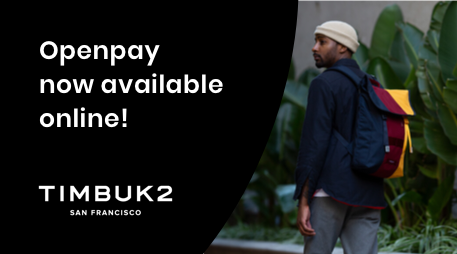
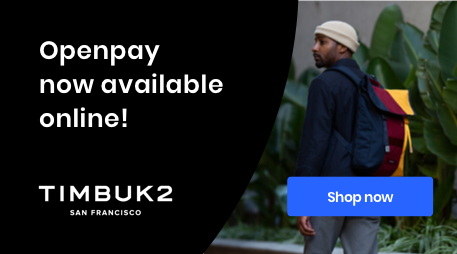
Tiles 2.0

Changed region(s): [[0.6127, 0.689, 0.9497, 0.8543]]

diff --git a/src/shop.html b/src/shop.html
@@ -151,10 +151,10 @@
             <h1>Featured Retailers</h1>
             <div class="treeBanners">
 		 <div class="col-3">
-                    <a>  <img src="./images/TOMS.png"></a>
+                    <a href="https://tomsaustralia.com.au/">  <img src="./images/TOMS.png"></a>
                 </div>
                 <div class="col-3">
-                    <a>  <img src="./images/Timbuk2.png"></a>
+                    <a href="https://timbuk2.com.au/">  <img src="./images/Timbuk2.png"></a>
                 </div>
                 <div class="col-3">
                     <a href="bunnings"><img src="./images/Bunnings Reg.png"></a>

diff --git a/src/how.html b/src/how.html
@@ -160,10 +160,10 @@
             <h1>Featured Retailers</h1>
             <div class="treeBanners">
 		<div class="col-3">
-                    <a>  <img src="./images/TOMS.png"></a>
+                    <a href="https://tomsaustralia.com.au/">  <img src="./images/TOMS.png"></a>
                 </div>
                 <div class="col-3">
-                    <a>  <img src="./images/Timbuk2.png"></a>
+                    <a href="https://timbuk2.com.au/">  <img src="./images/Timbuk2.png"></a>
                 </div>
                 <div class="col-3">
                     <a href="bunnings"><img src="./images/Bunnings Reg.png"></a>

diff --git a/src/index.html b/src/index.html
@@ -82,10 +82,10 @@
 			<h1>News & promotions</h1>
 			<div class="treeBanners">
 				<div class="col-3">
-					<a>  <img src="./images/TOMS.png"></a>
+					<a href="https://tomsaustralia.com.au/">  <img src="./images/TOMS.png"></a>
 				</div>
 				<div class="col-3">
-					<a>  <img src="./images/Timbuk2.png"></a>
+					<a href="https://timbuk2.com.au/">  <img src="./images/Timbuk2.png"></a>
 				</div>
 				<div class="col-3">
 					<a href="bunnings"><img src="./images/Bunnings Reg.png"></a>
